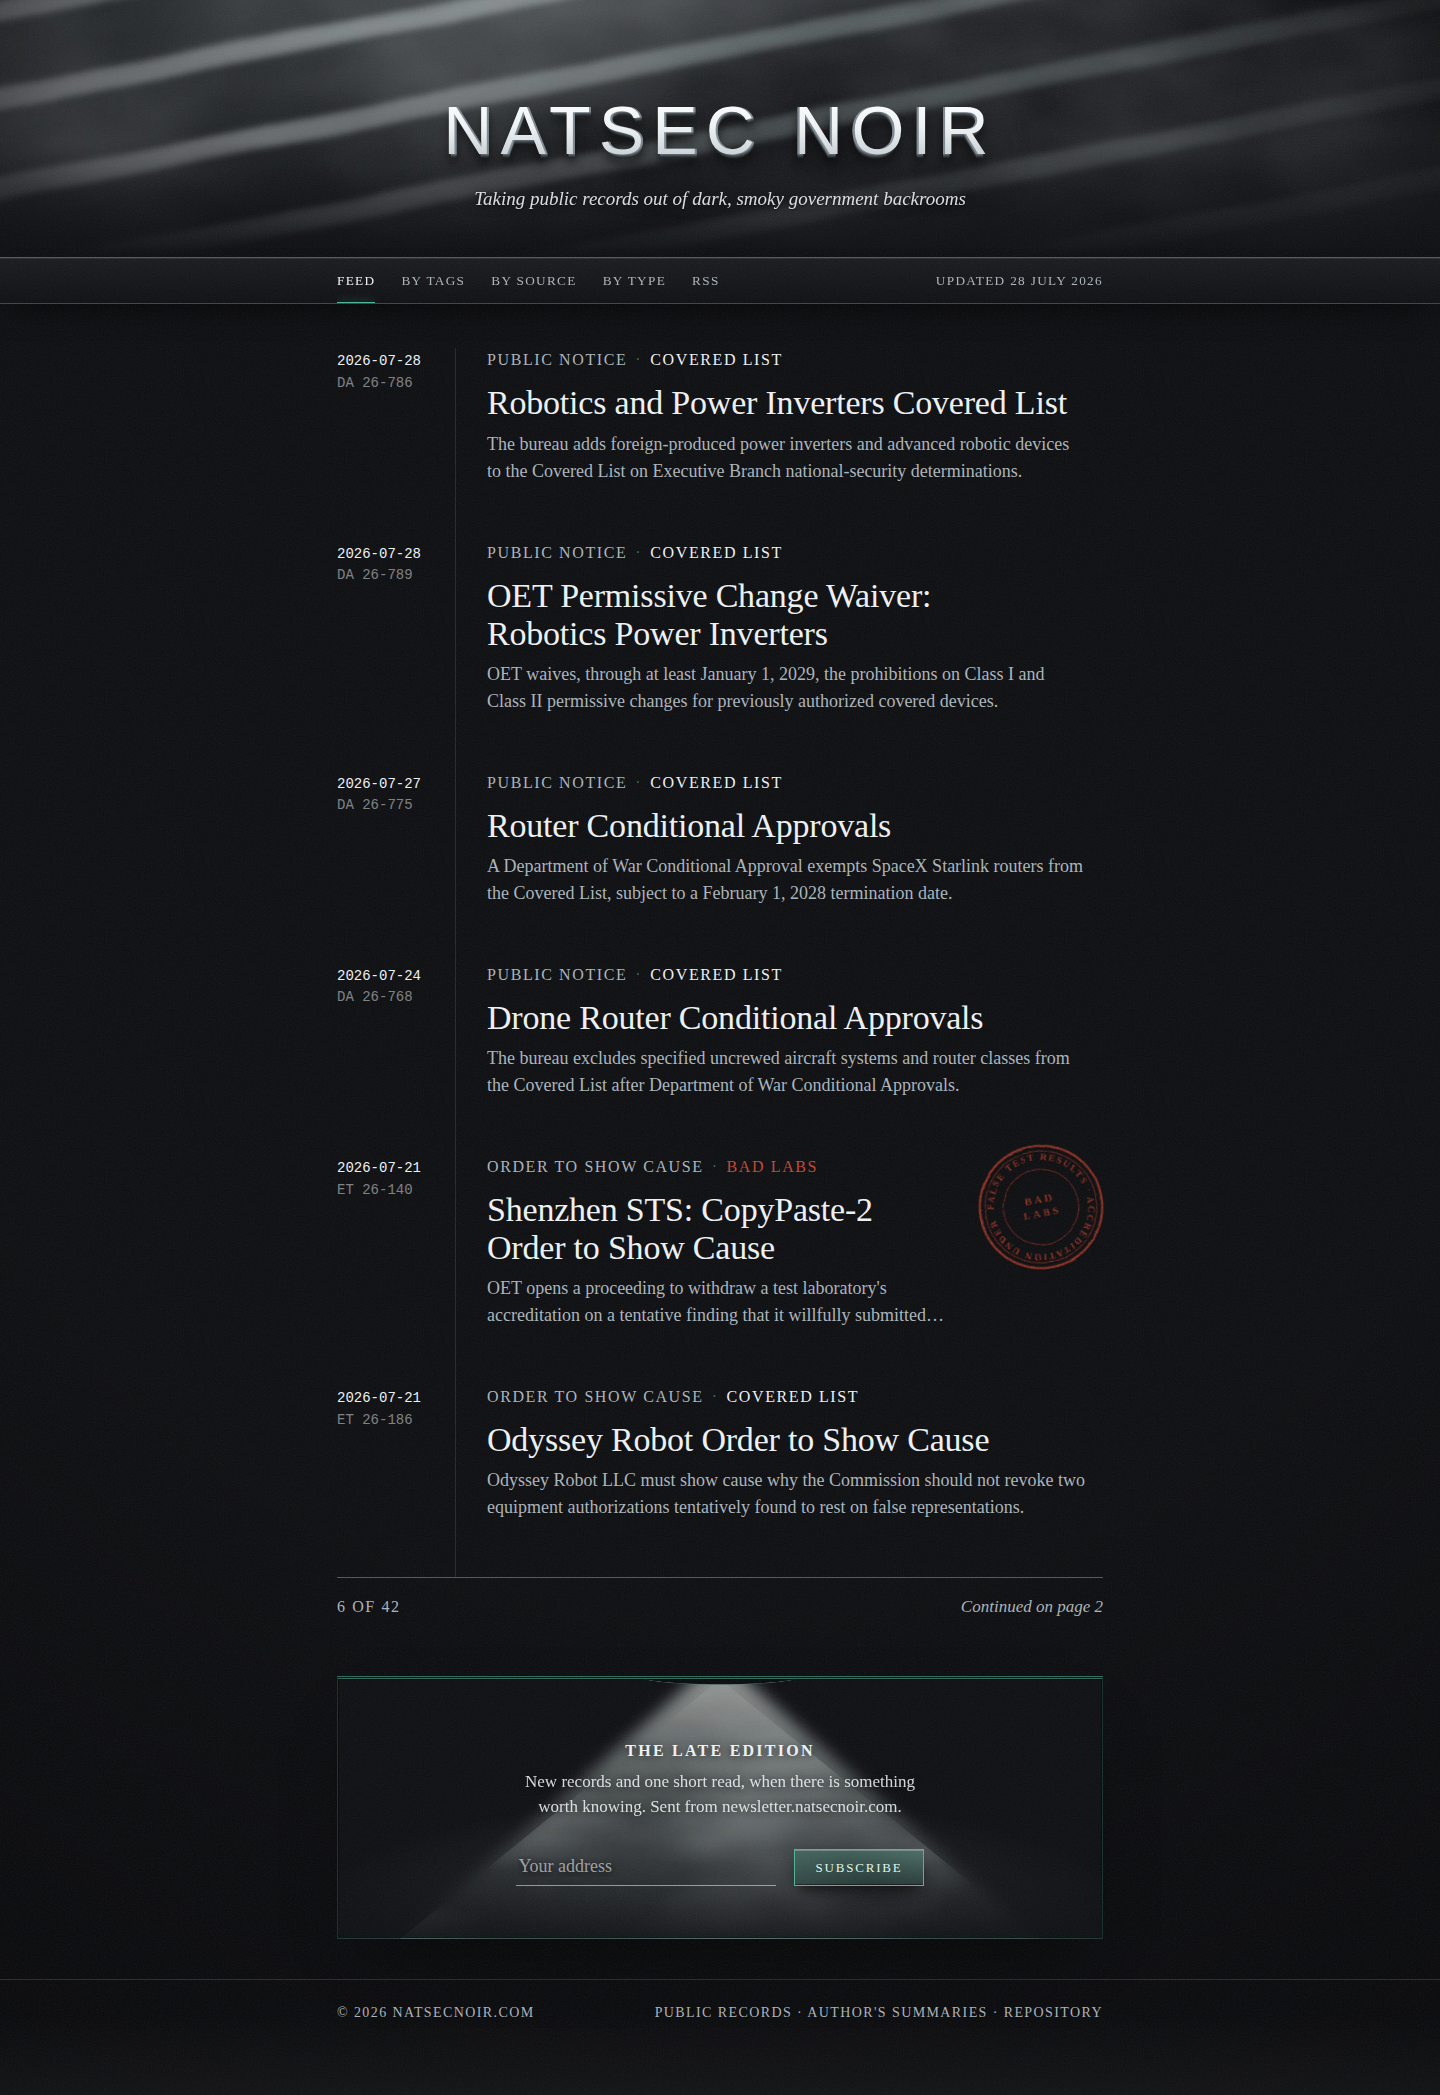
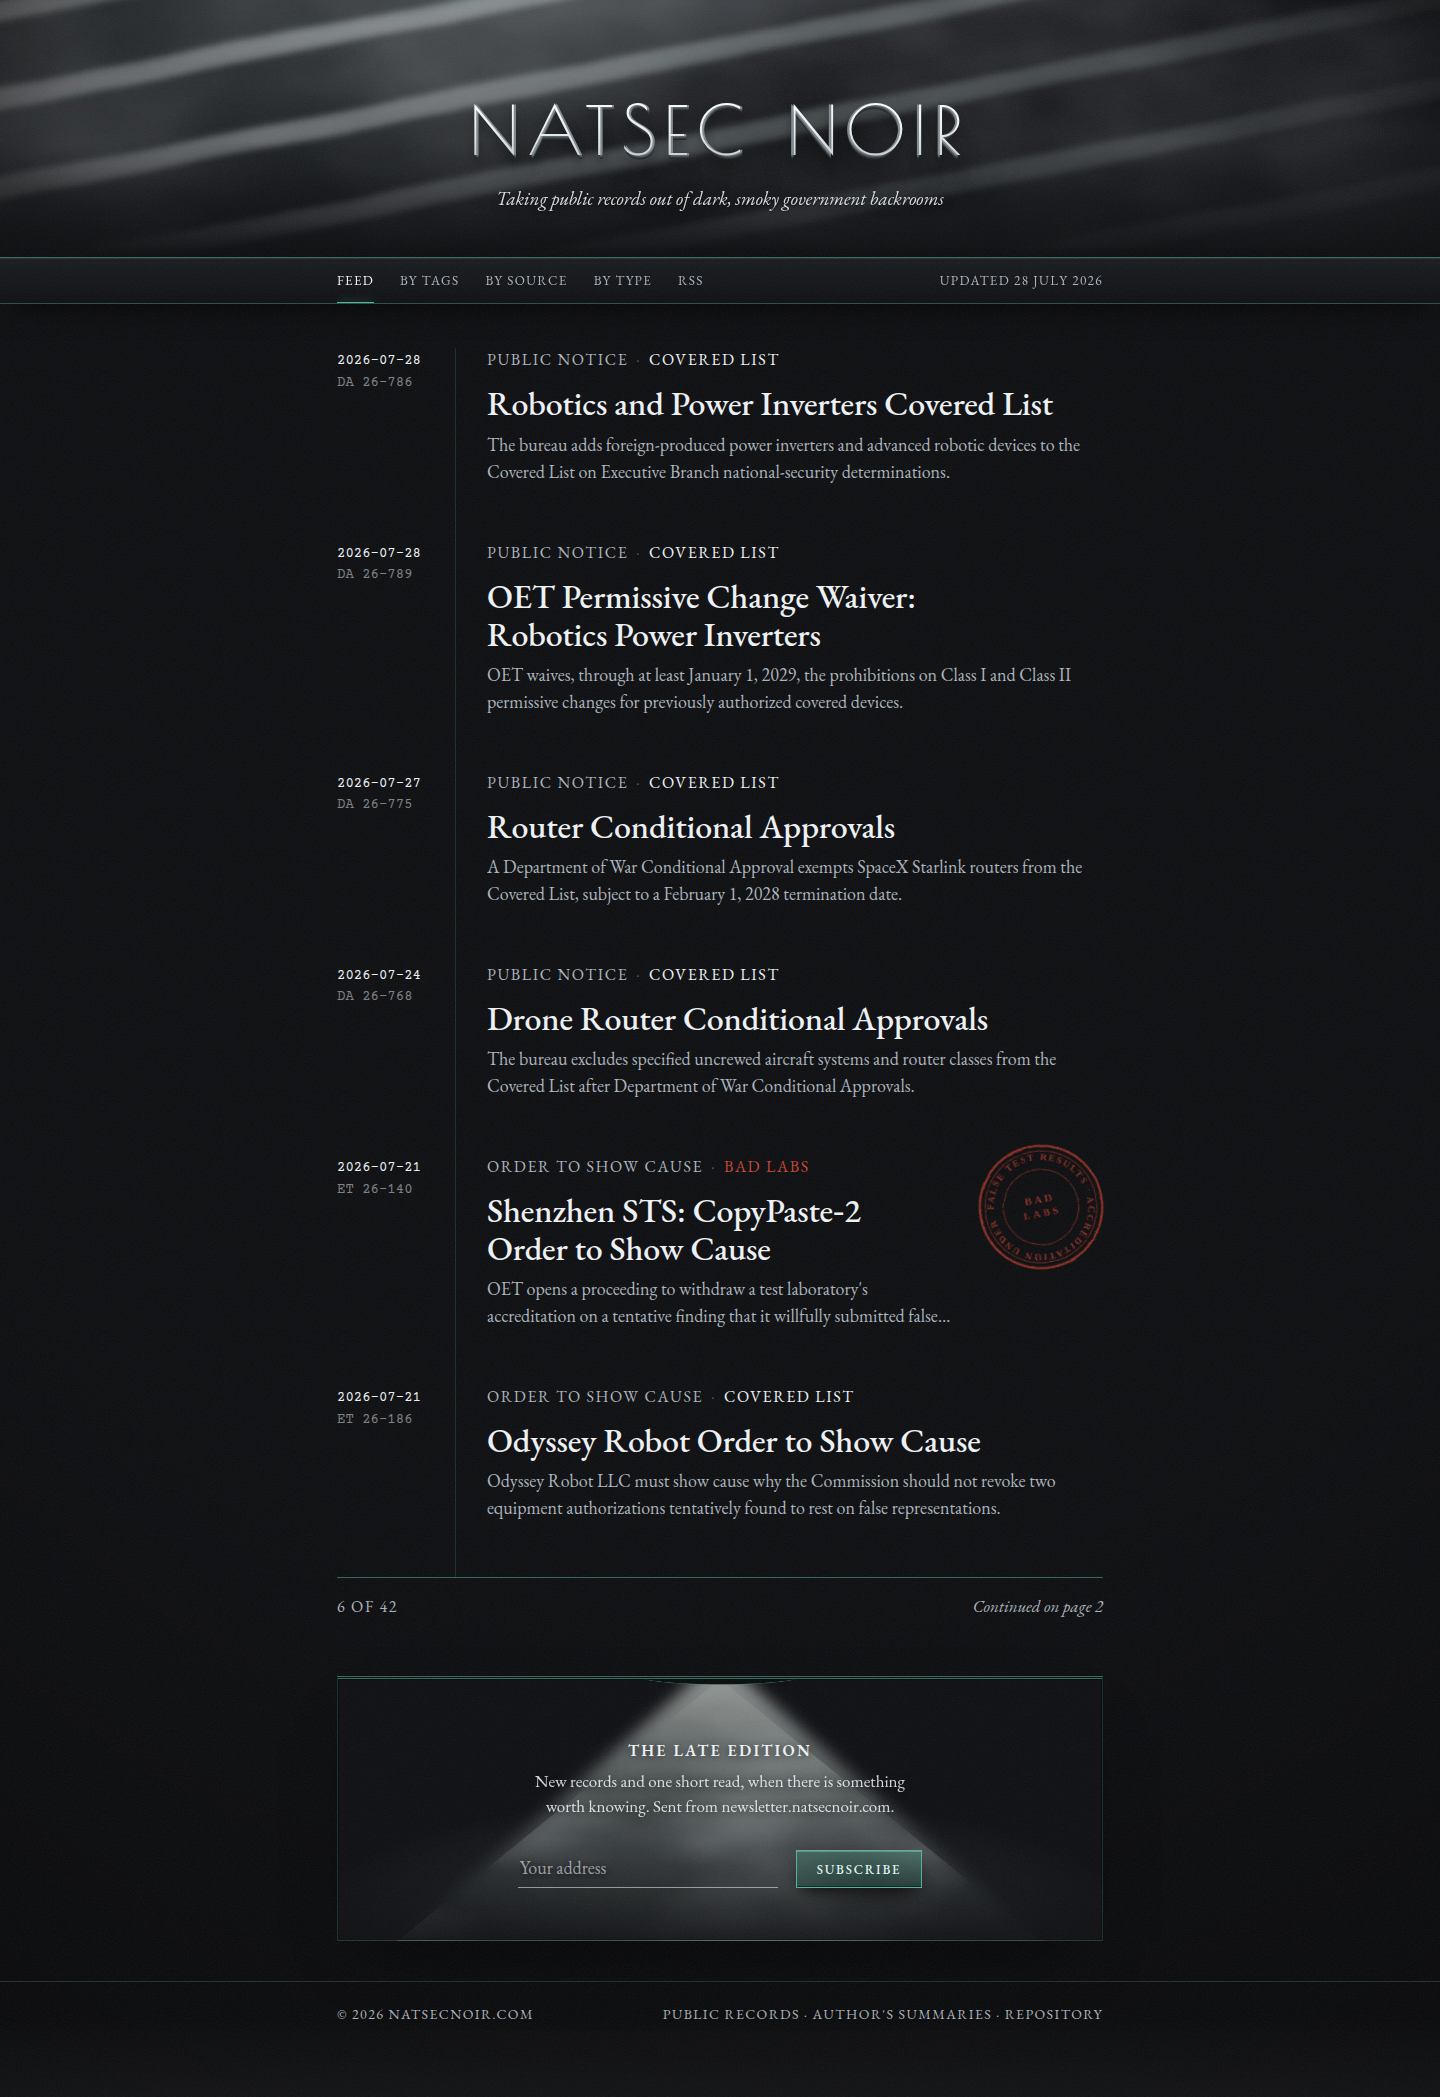
Design iteration 13: Limelight wordmark, right rail, lead record, grey tiers, footer
Critic gaps from v12 worked: rail at 1100px and up, lead record, three
grey tiers, bone subscribe key, footer with masthead echo. Wordmark
chosen from an 18-face sheet. Bad Labs seal withdrawn. Screenshot rig
now serves web fonts through curl; v12.png regenerated with real faces.

Claude-Session: https://claude.ai/code/session_01LsYL16Rbri1Q3Q3UynWQwY

diff --git a/design/iterations/v13.html b/design/iterations/v13.html
@@ -33,7 +33,7 @@ a:focus-visible,button:focus-visible,input:focus-visible{outline:2px solid var(-
    on the wall: a light top edge, a short extrusion, then a long soft shadow down and right. */
 .plate{position:relative;text-align:center;padding:92px 0 0;overflow:hidden;isolation:isolate}
 .plate::before{content:"";position:absolute;inset:0;z-index:-1;
-  background:linear-gradient(to bottom,rgba(11,12,15,.05) 0%,rgba(11,12,15,.25) 55%,var(--bg) 100%),url(img/blinds.jpg) center 40%/cover no-repeat}
+  background:linear-gradient(to bottom,rgba(11,12,15,.05) 0%,rgba(11,12,15,.25) 55%,var(--bg) 100%),url(../img/blinds.jpg) center 40%/cover no-repeat}
 .plate .mark{display:block;margin:0;font:400 clamp(38px,5vw,66px)/1 var(--mast);letter-spacing:.08em;text-transform:uppercase;color:var(--ink);position:relative}
 .plate .mark .w2{margin-left:.04em}
 .plate .mark::before{content:attr(data-text);position:absolute;inset:0;z-index:-1;color:#7d878e;
@@ -108,7 +108,7 @@ a:focus-visible,button:focus-visible,input:focus-visible{outline:2px solid var(-
 
 /* newsletter: a rail card under the lamp. The key is bone, not green; jade stays in the rules. */
 .letter .box{position:relative;isolation:isolate;overflow:hidden;border:1px solid var(--hair);border-top:3px double var(--hair3);padding:58px 22px 24px;text-align:center;
-  background:url(img/lamp.jpg) center top/cover no-repeat var(--bg);box-shadow:inset 0 0 0 1px rgba(0,0,0,.6),0 30px 60px -30px rgba(0,0,0,.9)}
+  background:url(../img/lamp.jpg) center top/cover no-repeat var(--bg);box-shadow:inset 0 0 0 1px rgba(0,0,0,.6),0 30px 60px -30px rgba(0,0,0,.9)}
 .letter .box::after{content:"";position:absolute;left:0;right:0;bottom:0;height:40%;z-index:-1;background:linear-gradient(to bottom,transparent,rgba(11,12,15,.85))}
 .letter .box>*{position:relative}
 .letter h2{border:0;padding:0;margin:0;font:600 15px/1 var(--serif);letter-spacing:.14em;text-transform:uppercase;color:var(--ink);text-shadow:0 1px 8px rgba(0,0,0,.8)}

diff --git a/design/img/plates-source.html b/design/img/plates-source.html
@@ -71,21 +71,3 @@
   <rect width="1400" height="520" filter="url(#grain2)" style="mix-blend-mode:overlay"/>
 </svg>
 
-<!-- PLATE 3: seal — an embossed round seal for the Bad Labs record, vermilion ink on dark. 320x320 -->
-<svg id="seal" class="plate" width="320" height="320" viewBox="0 0 320 320" xmlns="http://www.w3.org/2000/svg">
-  <defs>
-    <filter id="ink" x="-10%" y="-10%" width="120%" height="120%"><feTurbulence type="fractalNoise" baseFrequency=".05" numOctaves="3" seed="9" result="n"/><feDisplacementMap in="SourceGraphic" in2="n" scale="3"/><feComponentTransfer><feFuncA type="table" tableValues="0 .2 .95 1"/></feComponentTransfer></filter>
-    <filter id="wear" x="-5%" y="-5%" width="110%" height="110%"><feTurbulence type="fractalNoise" baseFrequency=".6" numOctaves="3" seed="4" result="n"/><feColorMatrix in="n" type="saturate" values="0" result="g"/><feComponentTransfer in="g" result="a"><feFuncA type="linear" slope="2" intercept="-.22"/></feComponentTransfer><feComposite in="SourceGraphic" in2="a" operator="in"/></filter>
-    <path id="arc" d="M160,160 m-108,0 a108,108 0 1,1 216,0 a108,108 0 1,1 -216,0"/>
-  </defs>
-  <g filter="url(#wear)"><g fill="none" stroke="#C4432F" filter="url(#ink)">
-    <circle cx="160" cy="160" r="140" stroke-width="5"/>
-    <circle cx="160" cy="160" r="128" stroke-width="1.5"/>
-    <circle cx="160" cy="160" r="86" stroke-width="1.5"/>
-  </g>
-  <g fill="#C4432F" filter="url(#ink)" font-family="EB Garamond, Garamond, Georgia, serif" font-weight="600" letter-spacing="4">
-    <text font-size="21"><textPath href="#arc" startOffset="2%">FALSE TEST RESULTS · ACCREDITATION UNDER REVIEW · </textPath></text>
-    <text x="160" y="150" text-anchor="middle" font-size="24" letter-spacing="6">BAD</text>
-    <text x="160" y="182" text-anchor="middle" font-size="24" letter-spacing="6">LABS</text>
-  </g></g>
-</svg>

diff --git a/design/iterations/CRITIQUE-LOG.md b/design/iterations/CRITIQUE-LOG.md
@@ -78,3 +78,19 @@ Verification: viewport frames every 720px of scroll at 1440px and 400px, plus 10
 | v12 | 7/10 | Dead width at 1440 (reverses owner: centred column); six equal entries, wants a lead (reverses owner); labels, deks and dockets in near-identical greys; newsletter box oversized for its content, green button clashes; footer thin. Imagery: masthead and seal carry the noir conceit; lamp cone on the edge of decoration |
 
 Thirteen fresh critics, twelve iterations. Scores: 5, 5, 6, 5, 5, 5.5, 6, 6, 6, 6, 6, 6, 7. The three top items in v12 are all reversals of standing owner decisions.
+
+## Round 9: critic gaps worked, Limelight wordmark, seal withdrawn
+
+Owner direction: follow the v12 critic on the remaining gaps; a more noir or art deco masthead face; take out the red Bad Labs seal.
+
+Rig defect found and fixed this round: inside the sandbox browser the Google Fonts stylesheet request was reset, so the v12 screenshots, the v12 critic score and the v12.png in this folder were rendered with fallback faces. The rig now fetches the fonts through curl and serves them to the browser. v12.png is regenerated with the real faces; the v12 score of 7 stands as recorded but was given on fallback type.
+
+Wordmark: eighteen faces rendered on the blinds plate with the cut-metal treatment (wordmark-candidates-2.png). Limelight chosen: the one face that is both deco and noir, and the treatment turns it into a marquee. Runner-up Fascinate Inline.
+
+Applied from the v12 critic: right rail at 1100px and up (newsletter card, counts by type and tag, a line from the record) so the page uses its width; a lead record one size up with a three-line summary in ink and a rule beneath; three grey tiers (ink for titles, tags and dates; a brighter dim for summaries; ash for labels, dockets and colophon); nav links in ink so the bar anchors the top; newsletter cut to a rail card with a bone key, no green on any control; footer with a masthead echo, a sections reprise and the colophon. Seal withdrawn and its plate removed.
+
+| Iteration | Score | Main gaps named by the critic |
+|---|---|---|
+| v13 | 7/10 | Items two to six identical after the lead, wants a second tier; blinds plate inert behind the wordmark and cut hard at the nav; rail runs out of content by mid-page; metadata column and headline block do not share a baseline; newsletter card and Bad Labs red read as tonal outliers. Wordmark: nails deco, tips toward marquee; wants a flatter fill and tighter tracking |
+
+Fourteen fresh critics, thirteen iterations. Scores: 5, 5, 6, 5, 5, 5.5, 6, 6, 6, 6, 6, 6, 7, 7.
